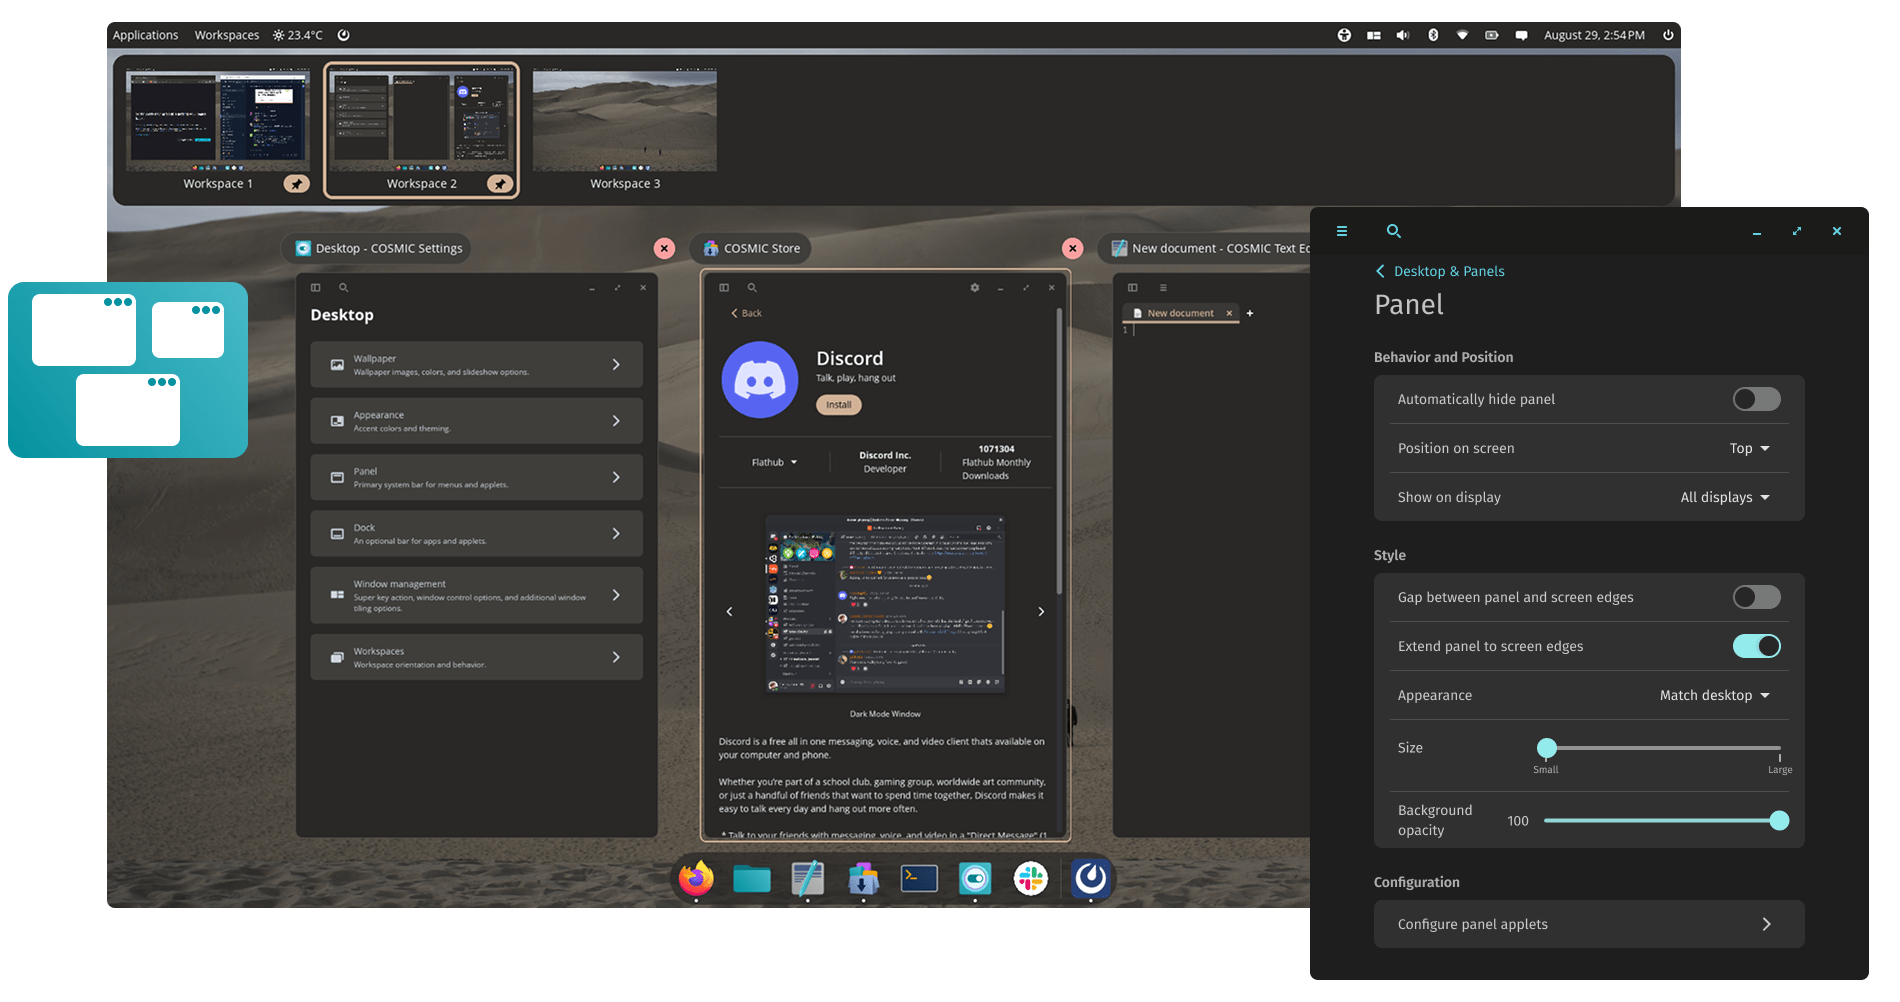
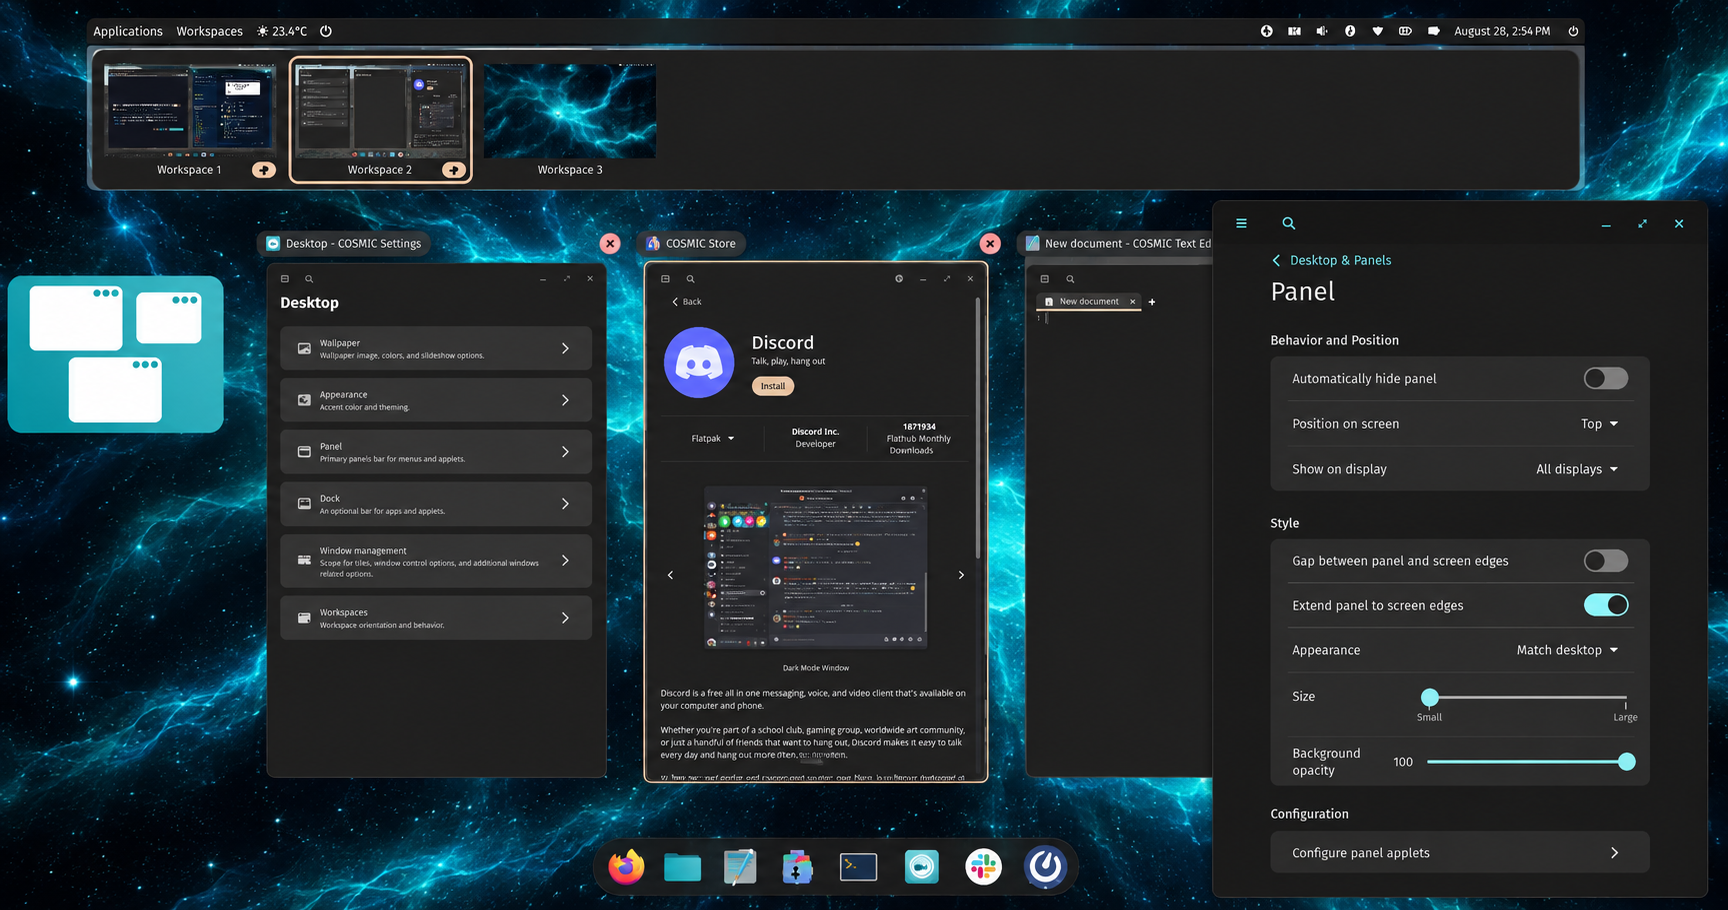
Update backgrounds and theming

diff --git a/index.html b/index.html
@@ -193,9 +193,12 @@ section[id]{scroll-margin-top:88px}
 <section class="hero section">
   <div class="container">
     <div class="hero-copy reveal">
-      <span class="hero-badge"><i></i> In development · Linux for the AI era</span>
-      <h1><span class="gradient-text">Work.</span><br>With context.</h1>
-      <p class="lead">venixOS is a modern Linux desktop built around your work, your knowledge, and your AI. Powered by COSMIC. Grounded in Ubuntu. With PUKNO integrated into the operating system from the start.</p>
+      <span class="hero-badge"><i></i> In development · Personal Computing with Memory</span>
+      <h1><span class="gradient-text"> venixOS &nbsp;</span></h1>
+      <h2><span class="gradient-text">&nbsp;</span><span>Linux for the AI era.</span></h2>
+
+      <p class="lead">venixOS is a modern Linux desktop integrated with PUKNO. <br> A local, private AI layer, that understands your work, remembers what you choose, and keeps you in control.</p>
+
       <div class="hero-actions"><a class="btn primary" href="#experience">Explore venixOS</a><a class="btn secondary" href="#pukno">Meet the AI layer</a></div>
       <div class="hero-note">A concept preview of the product direction. PUKNO integration and venixOS are in active development.</div>
     </div>
@@ -204,7 +207,7 @@ section[id]{scroll-margin-top:88px}
       <div class="laptop">
         <div class="laptop-screen">
           <div class="screen-inner">
-            <img class="cosmic-hero" src="assets/cosmic-desktop.webp" width="4720" height="894" fetchpriority="high" alt="COSMIC desktop shown in three visual themes as temporary reference imagery">
+            <img class="cosmic-hero" src="assets/cosmic-desktop-3.png"" width="4720" height="894" fetchpriority="high" alt="COSMIC desktop shown in three visual themes as temporary reference imagery">
             <div class="pukno-panel">
               <div class="pukno-head"><img src="assets/pukno-logo.jpeg" alt="PUKNO"><div><b>PUKNO</b><span>Personal context</span></div><div class="local-chip">local-first</div></div>
               <div class="pukno-body">
@@ -247,7 +250,7 @@ section[id]{scroll-margin-top:88px}
 
     <div class="feature-row reverse reveal">
       <div class="feature-copy"><div class="eyebrow brand">Yours by design</div><h3>Make the system feel like yours.</h3><p>venixOS will ship with its own visual identity, while keeping COSMIC’s flexibility underneath. Theme the desktop, tune your panels and shape the environment around the way you think.</p><ul class="feature-list"><li><i></i>System-wide theming</li><li><i></i>Configurable panels and applets</li><li><i></i>A coherent venixOS visual language</li></ul></div>
-      <div class="visual-card"><img src="assets/cosmic-theming.webp" width="1200" height="685" loading="lazy" decoding="async" alt="COSMIC desktop theming shown as temporary reference imagery"><div class="visual-caption">COSMIC theming · temporary reference imagery</div></div>
+      <div class="visual-card"><img src="assets/cosmic-theming.png" width="1200" height="685" loading="lazy" decoding="async" alt="COSMIC desktop theming shown as temporary reference imagery"><div class="visual-caption">COSMIC theming · temporary reference imagery</div></div>
     </div>
   </div>
 </section>
